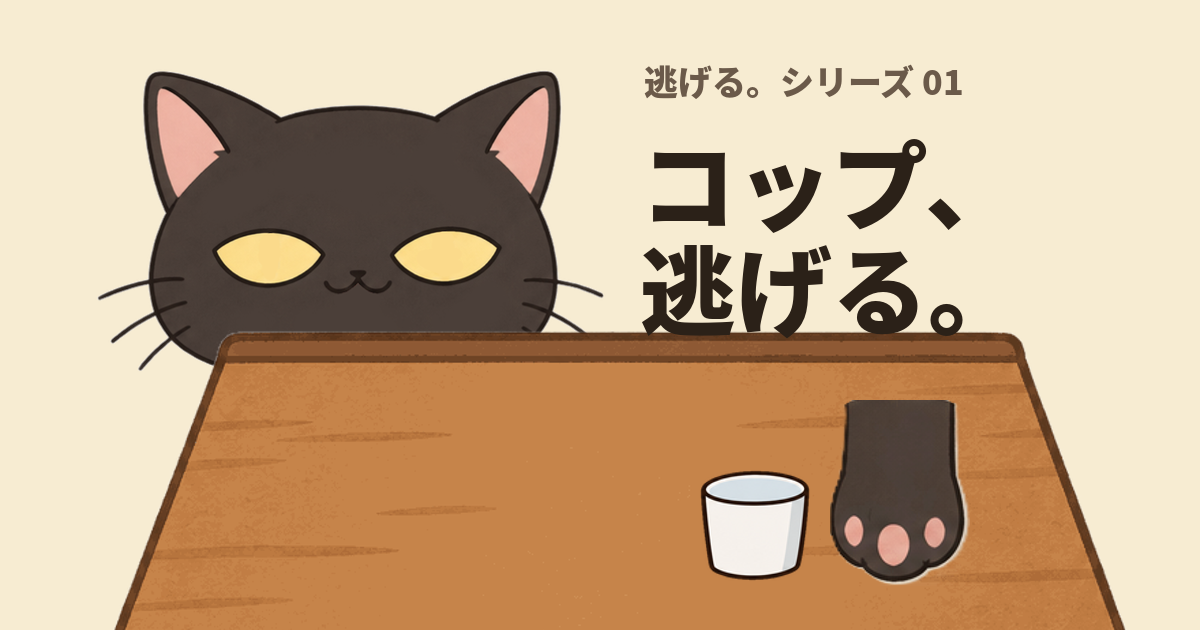
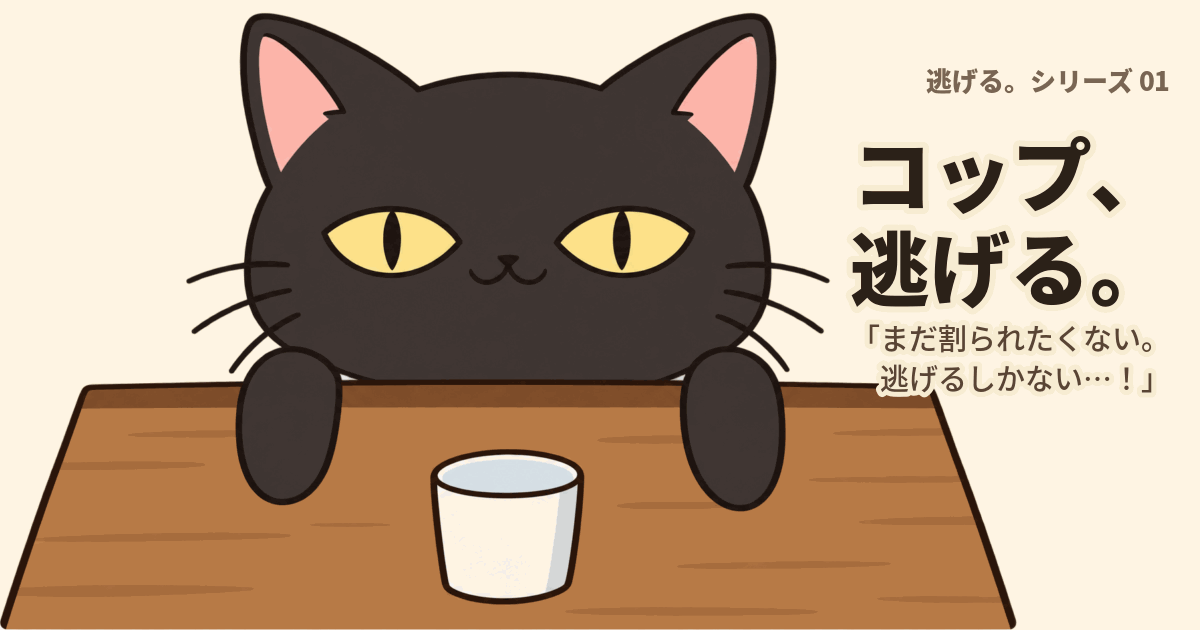
猫のセリフと称号を調整、安定性まわりを修正
- セリフ・称号の文言を調整し、OG画像を差し替え
- localStorage / AudioContext の例外でゲームが起動しなくなるのを修正
- ドラッグを最初の1本の指に固定（2本目を置くとコップが飛んでいた）
- 回転する小物がクラス側の中央寄せを打ち消していたのを修正
- ウィンドウのフォーカスが外れたとき矢印キーが押しっぱなしになるのを解除
- スコアの毎フレーム innerHTML をやめ、resize を1フレーム1回に間引く
- 盤面が狭いときに肩と両手攻撃の座標が破綻するのを修正
- 未使用の CSS 変数・変数・関数を整理

diff --git a/nigeru/cup/index.html b/nigeru/cup/index.html
@@ -15,11 +15,6 @@
   <style>
     :root {
       --bg: #f7ecd2;
-      --table: #c07f45;
-      --edge: #8e5628;
-      --floor: #a9713b;
-      --fur: #4c403a;
-      --line: #241b15;
       --ink: #2b2118;
       --accent: #d9483f;
     }
@@ -377,7 +372,7 @@
 
 <body>
   <div id="game">
-    <div id="score">0.0<small>s</small></div>
+    <div id="score"><span id="sec">0.0</span><small>s</small></div>
     <div id="best"></div>
 
     <div id="cat">
@@ -428,7 +423,6 @@
        ステージ設定
        ========================================================= */
     const STAGE = {
-      id: 'cat',
       title: 'コップ、逃げる。',
       clearTime: 60,
       difficulty: [
@@ -443,16 +437,16 @@
       nyaLead: 0.12,
       pupil: { thin: 7, narrow: 4, wide: 26, look: 36 },   // 瞳孔：通常／狙い中（細める）／攻撃直前（丸く）／左右に動く量（画像座標）
       deathLines: [
-        '見てた？', '今のは事故', '机に置く方が悪い', '反省はしてる。ちょっと', 'ほな',
-        '手が滑った。滑らせた', '次はもっと早いで', '悪いとは思ってる。落とすけど',
-        'ごめんて。ほんまに。ちょっとだけ', 'ごめんて。ほんまに。ちょっとだけ',
-        '今日はこのへんで', '音、聞いた？',
+        '今の見とった？', '今のは事故や', '机に置く方が悪いで、\n知らんけど', '反省はしてる。ちょっとだけ', 'ほな',
+        '手が滑った。あえてな。', '次はもっと早いで', '悪いとは思ってる。落とすけど',
+        'ごめんて。ほんまに。ちょっとだけ',
+        '今日はこのへんで', 'コップ、ええ音するな',
       ],
-      lateDeathLines: ['痛かった？…そっか'],
-      clearLines: ['ようやった。ちょっと本気出した', '最後まで逃げたコップ、あんまりおらん'],
+      lateDeathLines: ['痛かった？…ごめんやで'],
+      clearLines: ['ようやった。\nちょっと本気出した', '最後まで逃げたコップ、\nあんまりおらん'],
       titles: [
-        { under: 5, name: '称号：置き物' },
-        { under: 15, name: '称号：揺れただけ' },
+        { under: 5, name: '称号：一瞬のいのち' },
+        { under: 15, name: '称号：机に触れただけ' },
         { under: 30, name: '称号：逃げ足のコップ' },
         { under: 60, name: '称号：不屈のコップ' },
         { under: 1e9, name: '称号：机の主' },
@@ -470,7 +464,7 @@
     /* ================= エンジン ================= */
     const $ = s => document.querySelector(s);
     const game = $('#game'), catEl = $('#cat'), cupEl = $('#cup'), tableEl = $('#table');
-    const scoreEl = $('#score'), bestEl = $('#best'), overlay = $('#overlay');
+    const propsEl = $('#props'), secEl = $('#sec'), bestEl = $('#best'), overlay = $('#overlay');
     const bigEl = $('#big'), lineEl = $('#line'), subEl = $('#sub'), btns = $('#btns'), flash = $('#flash');
     const pL = $('#pL'), pR = $('#pR');
     const EYE = { l: 293.8, r: 587.0 };
@@ -479,17 +473,21 @@
 
     const CUP_W = 46, CUP_H = 47, PAW_W = 60;
     const HIT_MARGIN = 18;
-    let W = 0, H = 0, tableY = 0, cupY = 0, cupLine = 0;
+    let W = 0, H = 0, cupY = 0, cupLine = 0;
     let state = 'title';
     let t = 0, last = 0;
     let P = { x: 0 };
     let cur = null, wait = 0;
-    let best = +(localStorage.getItem(STAGE.storageKey) || 0);
+    let best = loadBest();
+    // localStorage はプライベートモードや Cookie ブロック下でアクセス自体が例外を投げる。ここで落とすと以降の初期化が全部止まる
+    function loadBest() { try { return +(localStorage.getItem(STAGE.storageKey) || 0) || 0; } catch (e) { return 0; } }
     const rnd = a => a[Math.floor(Math.random() * a.length)];
     const clamp = (v, a, b) => Math.max(a, Math.min(b, v));
 
     function layout() {
-      W = game.clientWidth; H = game.clientHeight;
+      const w = game.clientWidth, h = game.clientHeight;
+      if (W && w === W && h === H) return;   // サイズが変わらない resize（モバイルのアドレスバーの出入り等）では何もしない
+      W = w; H = h;
       // 机の奥端 44%。猫は顎が机に隠れる位置（口は見える）。コップの底 73%。その下は親指エリア
       const tableTop = Math.round(H * 0.44);
       tableEl.style.top = tableTop + 'px'; tableEl.style.height = (H - tableTop) + 'px';   // 縦長端末では横を切って下端まで届かせる
@@ -499,26 +497,30 @@
       const cupBase = Math.round(H * 0.73);
       cupY = cupBase - CUP_H;
       cupLine = cupBase - CUP_H * 0.45;           // 肉球の中心が来る高さ（コップの胴体）
-      tableY = cupBase;
-      // 肩：顔の両脇、机の縁のすぐ下
-      SH.L = { x: Math.round(W / 2 - catW * 0.38), y: tableTop + 10 };
-      SH.R = { x: Math.round(W / 2 + catW * 0.38), y: tableTop + 10 };
+      // 肩：顔の両脇、机の縁のすぐ下。盤面が狭いときは腕の根元が画面外へ出ないよう内側へ寄せる
+      const shx = Math.max(0, Math.min(catW * 0.38, W / 2 - PAW_W / 2));
+      SH.L = { x: Math.round(W / 2 - shx), y: tableTop + 10 };
+      SH.R = { x: Math.round(W / 2 + shx), y: tableTop + 10 };
       P.x = clamp(P.x || W / 2, CUP_W / 2, W - CUP_W / 2);
-      drawProps();
+      placeProps();
       drawCup();
     }
-    function drawProps() {
-      const box = document.getElementById('props'); box.innerHTML = '';
-      for (const p of STAGE.props) {
+    let propEls = [];
+    function buildProps() {                         // 小物の要素は起動時に1回だけ作る（resize のたびに作り直すとちらつく）
+      propsEl.innerHTML = '';
+      propEls = STAGE.props.map(p => {
         const el = document.createElement('div'); el.className = 'prop';
         if (p.src) { const im = document.createElement('img'); im.src = p.src; im.style.width = p.size + 'px'; el.appendChild(im); }
         else { el.textContent = p.emoji; el.style.fontSize = p.size + 'px'; }
-        el.style.left = (p.x * W) + 'px'; el.style.top = (p.y * H) + 'px';
-        if (p.rotate) el.style.transform += ` rotate(${p.rotate}deg)`;
-        box.appendChild(el);
-      }
+        el.style.transform = `translate(-50%,-50%)${p.rotate ? ` rotate(${p.rotate}deg)` : ''}`;   // クラス側の translate を消さないよう常にまとめて指定する
+        propsEl.appendChild(el);
+        return el;
+      });
     }
+    function placeProps() { STAGE.props.forEach((p, i) => { propEls[i].style.left = (p.x * W) + 'px'; propEls[i].style.top = (p.y * H) + 'px'; }); }
     function drawCup() { cupEl.style.transform = `translate(${P.x - CUP_W / 2}px, ${cupY}px)`; }
+    let shownSec = '';
+    function drawScore() { const s = t.toFixed(1); if (s !== shownSec) { shownSec = s; secEl.textContent = s; } }   // 表示が変わるときだけ書き込む（0.1s 刻みなので実際は数フレームに1回）
     function showBest() { bestEl.textContent = best ? `ベスト ${best.toFixed(1)}s` : ''; }
 
     /* ---- 猫の目・口 ---- */
@@ -561,7 +563,6 @@
       el.style.height = Math.max(0, depth * L - 15) + 'px';     // 先端の肉球の中心が (tx,ty) に来る
     }
     function hideArms() { armL.style.display = 'none'; armR.style.display = 'none'; }
-    function nearSide(x) { return x < W / 2 ? 'L' : 'R'; }
     function farSide(x) { return x < W / 2 ? 'R' : 'L'; }
 
     /* ---- 当たり判定 ---- */
@@ -627,8 +628,10 @@
         {
           d: d.tele, run: (p, c) => {
             if (c.x1 == null) {
-              const gap = CUP_W * 1.6;
-              const gc = clamp(P.x + (Math.random() * 2 - 1) * CUP_W * 1.3, gap / 2 + PAW_W / 2, W - gap / 2 - PAW_W / 2);
+              const gap = Math.max(CUP_W * 1.1, Math.min(CUP_W * 1.6, W - PAW_W));   // 盤面が狭いときは隙間を詰める（コップ1.1個分は必ず残す）
+              const edge = gap / 2 + PAW_W / 2;
+              const gc = clamp(P.x + (Math.random() * 2 - 1) * CUP_W * 1.3,
+                Math.min(edge, W / 2), Math.max(W - edge, W / 2));   // 下限>上限にならないよう中央へ寄せる
               c.x1 = gc - gap / 2 - PAW_W / 2; c.x2 = gc + gap / 2 + PAW_W / 2;
             }
             teleRun(p, d.tele, P.x);
@@ -686,7 +689,7 @@
       overlay.classList.remove('show');
       catEl.className = ''; cupEl.getAnimations().forEach(a => a.cancel()); cupEl.style.visibility = '';
       hideArms(); catRest();
-      P.x = W / 2; lookX = W / 2; drawCup();
+      P.x = W / 2; lookX = W / 2; drag = null; drawCup(); drawScore();
       last = performance.now();
       requestAnimationFrame(loop);
     }
@@ -694,14 +697,14 @@
       if (state !== 'play') return;
       const dt = Math.min(0.05, (now - last) / 1000); last = now;
       t += dt;
-      scoreEl.innerHTML = t.toFixed(1) + '<small>s</small>';
+      drawScore();
       if (t >= STAGE.clearTime) { clear(); return; }
       if (cur) stepAttack(dt);
       else { catFollow(dt); wait -= dt; if (wait <= 0) startAttack(); }   // 待機中は少し遅れてコップを目で追う
       requestAnimationFrame(loop);
     }
     function titleFor(sec) { return STAGE.titles.find(x => sec < x.under).name; }
-    function saveBest(sec) { if (PRACTICE) return; if (sec > best) { best = sec; localStorage.setItem(STAGE.storageKey, String(best)); } showBest(); }
+    function saveBest(sec) { if (PRACTICE) return; if (sec > best) { best = sec; try { localStorage.setItem(STAGE.storageKey, String(best)); } catch (e) { } } showBest(); }
 
     function die(dir) {
       if (state !== 'play') return;
@@ -769,8 +772,8 @@
       const share = document.createElement('button'); share.className = 'ghost'; share.textContent = 'Xで自慢する';
       share.onclick = () => {
         const text = state === 'clear'
-          ? `【コップ、逃げる。】60秒逃げ切った。猫は飽きて寝てしまった。称号：机の主`
-          : `【コップ、逃げる。】コップは${sec.toFixed(1)}秒生き延びた「${line}」`;
+          ? `【${STAGE.title}】60秒逃げ切った。猫は飽きて寝てしまった。称号：机の主`
+          : `【${STAGE.title}】コップは${sec.toFixed(1)}秒生き延びた「${line}」`;
         window.open('https://twitter.com/intent/tweet?text=' + encodeURIComponent(text + '\n' + location.href), '_blank');
       };
       if (PRACTICE) { subEl.textContent = '練習モード（記録なし）'; btns.append(again); overlay.classList.add('show'); return; }
@@ -781,20 +784,23 @@
     /* ---- 入力 ---- */
     let drag = null;
     game.addEventListener('pointerdown', e => {
-      if (state !== 'play') return;
+      if (state !== 'play' || drag) return;          // 2本目以降の指は無視（1本目のドラッグを乗っ取らせない）
       e.preventDefault();
-      drag = { sx: e.clientX, px: P.x }; game.setPointerCapture(e.pointerId);
+      drag = { id: e.pointerId, sx: e.clientX, px: P.x };
+      try { game.setPointerCapture(e.pointerId); } catch (err) { }
     });
     game.addEventListener('dragstart', e => e.preventDefault());
     game.addEventListener('pointermove', e => {
-      if (!drag || state !== 'play') return;
+      if (!drag || drag.id !== e.pointerId || state !== 'play') return;
       P.x = clamp(drag.px + (e.clientX - drag.sx) * 1.15, CUP_W / 2, W - CUP_W / 2); drawCup();
     });
-    game.addEventListener('pointerup', () => drag = null);
-    game.addEventListener('pointercancel', () => drag = null);
+    const endDrag = e => { if (drag && drag.id === e.pointerId) drag = null; };
+    game.addEventListener('pointerup', endDrag);
+    game.addEventListener('pointercancel', endDrag);
     const keys = {};
     addEventListener('keydown', e => { keys[e.key] = true; if (state === 'title' && (e.key === ' ' || e.key === 'Enter')) $('#btnMain').click(); });
     addEventListener('keyup', e => keys[e.key] = false);
+    addEventListener('blur', () => { for (const k in keys) keys[k] = false; });   // 別タブへ移ると keyup が来ず、押しっぱなしのまま残る
     setInterval(() => {
       if (state !== 'play') return;
       const v = (keys.ArrowRight ? 1 : 0) - (keys.ArrowLeft ? 1 : 0);
@@ -803,7 +809,13 @@
 
     /* ---- 効果音（WebAudio合成。「にゃっ」は録音があれば差し替え） ---- */
     let AC = null;
-    function audioInit() { if (!AC) AC = new (window.AudioContext || window.webkitAudioContext)(); if (AC.state === 'suspended') AC.resume(); loadNya(); }
+    function audioInit() {                      // 音を作れない端末でもゲームは動かす（ここで投げると start() に到達しない）
+      try {
+        if (!AC) AC = new (window.AudioContext || window.webkitAudioContext)();
+        if (AC.state === 'suspended') AC.resume();
+        loadNya();
+      } catch (e) { }
+    }
     function tone(f, dur, type = 'sine', vol = 0.15) {
       if (!AC) return;
       const o = AC.createOscillator(), g = AC.createGain();
@@ -855,8 +867,13 @@
     /* ---- 起動 ---- */
     $('#btnMain').onclick = () => { audioInit(); start(); };
     game.addEventListener('pointerdown', audioInit, { once: true });
-    addEventListener('resize', layout);
-    layout(); showBest(); catRest();
+    let rzPending = false;
+    addEventListener('resize', () => {              // resize は連続して飛んでくるので1フレームに1回へ間引く
+      if (rzPending) return;
+      rzPending = true;
+      requestAnimationFrame(() => { rzPending = false; layout(); });
+    });
+    buildProps(); layout(); showBest(); catRest();
   </script>
 </body>
 
